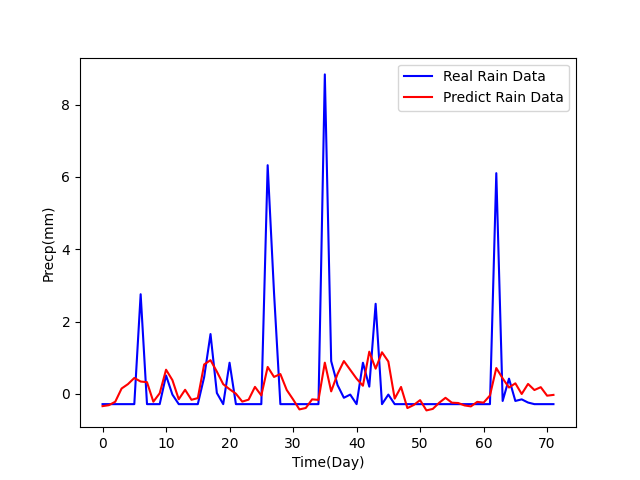
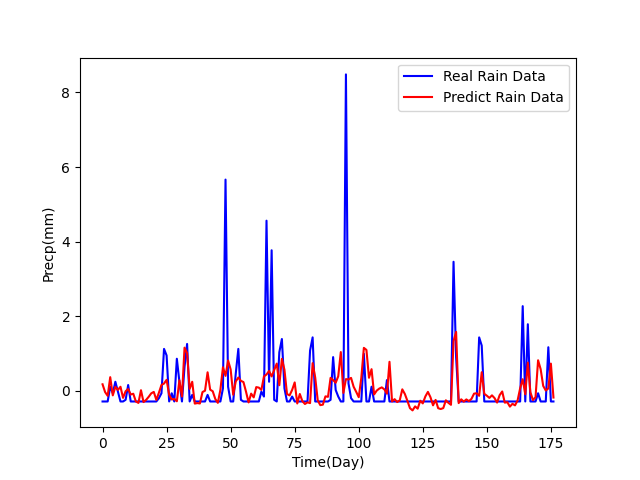
fix: verify update

diff --git a/src/verify/verify.py b/src/verify/verify.py
@@ -8,7 +8,8 @@ import matplotlib.pyplot as plt
 configFile = json.load(open("./config.json", 'r', encoding='utf-8'))
 readAndSavePath = configFile["getData"]["download path"]
 stationNumber = configFile["getData"]["station number"]
-verifySetRatio = 0.02
+verifySetStart = 0.9
+verifySetEnd = 0.95
 
 #val
 dataColumns = ["StnPres","SeaPres","StnPresMax","StnPresMin","Temperature","T Max","T Min","Td dew point","RH","RHMin","WS","WD","WSGust","WDGust","PrecpHour","PrecpMax10","PrecpMax60","SunShine","SunshineRate","GloblRad","VisbMean","EvapA","UVI Max","Cloud Amount","TxSoil0cm","TxSoil5cm","TxSoil10cm","TxSoil20cm","TxSoil30cm","TxSoil50cm","TxSoil100cm"]
@@ -78,14 +79,12 @@ for index, row in rainDataFile.iterrows():
 rainDataMean = mean(rainData)
 rainDataSd = sd(rainData)
 
-#get real y
-testSetNum = math.ceil(dataNum*verifySetRatio)
+#get real y ypred
+testSetStartIdx = math.ceil(dataNum*verifySetStart)
+testSetEndIdx = math.floor(dataNum*verifySetEnd)
 
-for i in range(dataNum-testSetNum, dataNum):
+for i in range(testSetStartIdx, testSetEndIdx):
     plotDataY.append(rainData[i])
-
-#get pred y
-for i in range(dataNum-testSetNum, dataNum):
     plotDataYPred.append((dot(weight, dataStd[i])*rainDataSd)+rainDataMean)
 
 #draw
